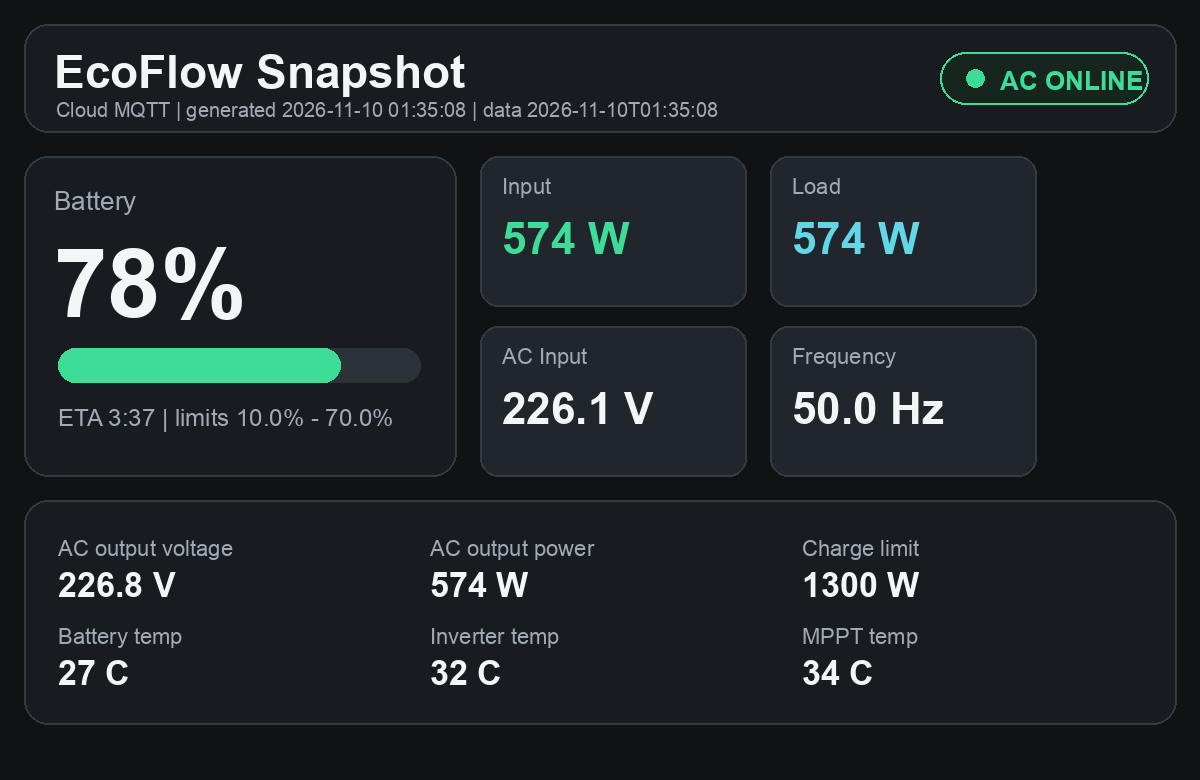
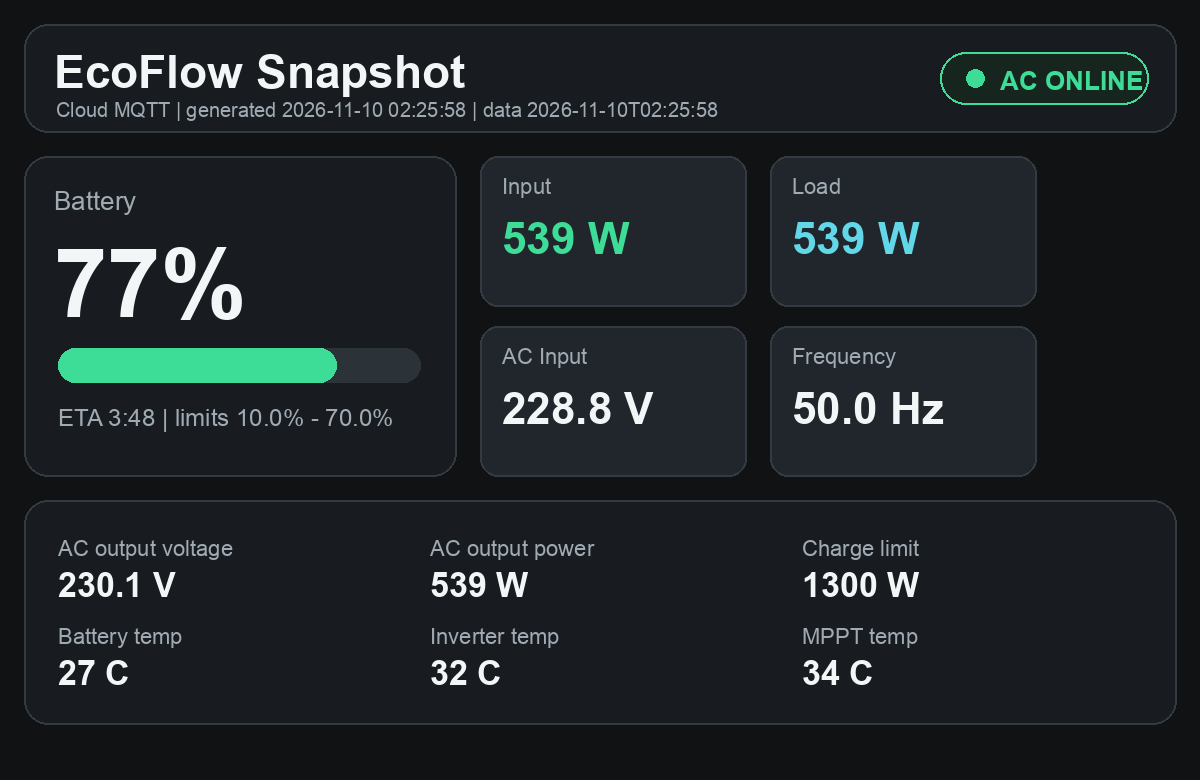
Update EcoFlow dashboard 2026-11-10 02:25:59

diff --git a/index.html b/index.html
@@ -75,7 +75,7 @@
       overflow: hidden;
       margin-top: 14px;
     }
-    .fill { width: 78%; height: 100%; background: linear-gradient(90deg, var(--green), var(--cyan)); }
+    .fill { width: 77%; height: 100%; background: linear-gradient(90deg, var(--green), var(--cyan)); }
     .cards {
       display: grid;
       grid-template-columns: repeat(4, minmax(0, 1fr));
@@ -177,7 +177,7 @@
   <header>
     <div>
       <h1>EcoFlow Snapshot</h1>
-      <div class="sub">Cloud MQTT · generated 2026-11-10T01:35:08 · data 2026-11-10T01:35:08</div>
+      <div class="sub">Cloud MQTT · generated 2026-11-10T02:25:58 · data 2026-11-10T02:25:58</div>
     </div>
     <div class="status online"><span class="dot"></span><span>AC online</span></div>
   </header>
@@ -187,22 +187,22 @@
   <div class="grid">
     <section>
       <h2>Battery</h2>
-      <div class="value">78%</div>
+      <div class="value">77%</div>
       <div class="battery"><div class="fill"></div></div>
-      <div class="row"><span>ETA</span><span>3:37</span></div>
+      <div class="row"><span>ETA</span><span>3:48</span></div>
       <div class="row"><span>SOC limits</span><span>10.0% - 70.0%</span></div>
     </section>
     <section>
       <h2>AC</h2>
-      <div class="row"><span>Input voltage</span><span>226.1 V</span></div>
+      <div class="row"><span>Input voltage</span><span>228.8 V</span></div>
       <div class="row"><span>Input frequency</span><span>50.0 Hz</span></div>
-      <div class="row"><span>Output voltage</span><span>226.8 V</span></div>
+      <div class="row"><span>Output voltage</span><span>230.1 V</span></div>
     </section>
   </div>
 
   <div class="cards">
-    <div class="card"><span class="label">Input</span><span class="value">574 W</span></div>
-    <div class="card"><span class="label">Load</span><span class="value">574 W</span></div>
+    <div class="card"><span class="label">Input</span><span class="value">539 W</span></div>
+    <div class="card"><span class="label">Load</span><span class="value">539 W</span></div>
     <div class="card"><span class="label">Battery temp</span><span class="value">27°C</span></div>
     <div class="card"><span class="label">Inverter temp</span><span class="value">32°C</span></div>
   </div>
@@ -217,8 +217,8 @@
         <div class="daily-item"><span class="label">Зарядний ліміт</span><strong>1300 W</strong><small>пік входу 583 W · 45% ліміту</small></div>
         <div class="daily-item"><span class="label">Заряджання</span><strong>0 сек</strong><small>--</small></div>
         <div class="daily-item"><span class="label">Розряджання</span><strong>0 сек</strong><small>--</small></div>
-        <div class="daily-item"><span class="label">Енергія вхід / вихід</span><strong>315 Wh / 315 Wh</strong><small>оцінка за sample-ами</small></div>
-        <div class="daily-item"><span class="label">Частота min / max</span><strong>50.0 Hz / 50.0 Hz</strong><small>09.11 01:50 / 09.11 01:50</small></div>
+        <div class="daily-item"><span class="label">Енергія вхід / вихід</span><strong>338 Wh / 338 Wh</strong><small>оцінка за sample-ами</small></div>
+        <div class="daily-item"><span class="label">Частота min / max</span><strong>50.0 Hz / 50.0 Hz</strong><small>09.11 02:38 / 09.11 02:38</small></div>
       </div>
     </section>
     
@@ -249,24 +249,24 @@
   &quot;ok&quot;: true,
   &quot;source&quot;: &quot;Cloud MQTT&quot;,
   &quot;device&quot;: &quot;DELTA Pro&quot;,
-  &quot;timestamp&quot;: &quot;2026-11-10T01:35:08&quot;,
+  &quot;timestamp&quot;: &quot;2026-11-10T02:25:58&quot;,
   &quot;grid&quot;: true,
   &quot;battery&quot;: {
-    &quot;soc&quot;: 78,
+    &quot;soc&quot;: 77,
     &quot;min&quot;: 10.0,
     &quot;max&quot;: 70.0,
-    &quot;eta&quot;: &quot;3:37&quot;
+    &quot;eta&quot;: &quot;3:48&quot;
   },
   &quot;power&quot;: {
-    &quot;in&quot;: 574,
-    &quot;out&quot;: 574,
-    &quot;acOut&quot;: 574,
+    &quot;in&quot;: 539,
+    &quot;out&quot;: 539,
+    &quot;acOut&quot;: 539,
     &quot;chargeLimit&quot;: 1300
   },
   &quot;ac&quot;: {
-    &quot;inputVoltage&quot;: 226.068,
+    &quot;inputVoltage&quot;: 228.836,
     &quot;inputFreq&quot;: 50.0,
-    &quot;outputVoltage&quot;: 226.838
+    &quot;outputVoltage&quot;: 230.101
   },
   &quot;temps&quot;: {
     &quot;battery&quot;: 27,
@@ -391,16 +391,16 @@
   ],
   &quot;telemetry&quot;: {
     &quot;window&quot;: &quot;24h&quot;,
-    &quot;sample_count&quot;: 45,
-    &quot;from&quot;: &quot;2026-11-09T01:50:56&quot;,
-    &quot;to&quot;: &quot;2026-11-10T01:35:08&quot;,
+    &quot;sample_count&quot;: 44,
+    &quot;from&quot;: &quot;2026-11-09T02:38:04&quot;,
+    &quot;to&quot;: &quot;2026-11-10T02:25:58&quot;,
     &quot;latest&quot;: {
       &quot;mode&quot;: &quot;idle&quot;,
       &quot;grid&quot;: true,
-      &quot;soc&quot;: 78.0,
-      &quot;ac_v&quot;: 226.068,
-      &quot;in_w&quot;: 574.0,
-      &quot;out_w&quot;: 574.0,
+      &quot;soc&quot;: 77.0,
+      &quot;ac_v&quot;: 228.836,
+      &quot;in_w&quot;: 539.0,
+      &quot;out_w&quot;: 539.0,
       &quot;charge_limit_w&quot;: 1300.0
     },
     &quot;voltage&quot;: {
@@ -414,11 +414,11 @@
       },
       &quot;frequency_min&quot;: {
         &quot;value&quot;: 50.0,
-        &quot;ts&quot;: &quot;2026-11-09T01:50:56&quot;
+        &quot;ts&quot;: &quot;2026-11-09T02:38:04&quot;
       },
       &quot;frequency_max&quot;: {
         &quot;value&quot;: 50.0,
-        &quot;ts&quot;: &quot;2026-11-09T01:50:56&quot;
+        &quot;ts&quot;: &quot;2026-11-09T02:38:04&quot;
       }
     },
     &quot;soc&quot;: {
@@ -446,16 +446,16 @@
       },
       &quot;charge_limit_w&quot;: 1300.0,
       &quot;max_input_pct_of_current_limit&quot;: 45,
-      &quot;input_wh_est&quot;: 315.1,
-      &quot;load_wh_est&quot;: 315.1
+      &quot;input_wh_est&quot;: 337.9,
+      &quot;load_wh_est&quot;: 337.9
     },
     &quot;modes&quot;: {
       &quot;charging_sec&quot;: 0,
       &quot;discharging_sec&quot;: 0,
-      &quot;idle_sec&quot;: 7920,
+      &quot;idle_sec&quot;: 7740,
       &quot;charging&quot;: &quot;0 сек&quot;,
       &quot;discharging&quot;: &quot;0 сек&quot;,
-      &quot;idle&quot;: &quot;2 год 12 хв&quot;,
+      &quot;idle&quot;: &quot;2 год 09 хв&quot;,
       &quot;last_charging&quot;: null,
       &quot;last_discharging&quot;: null
     }
